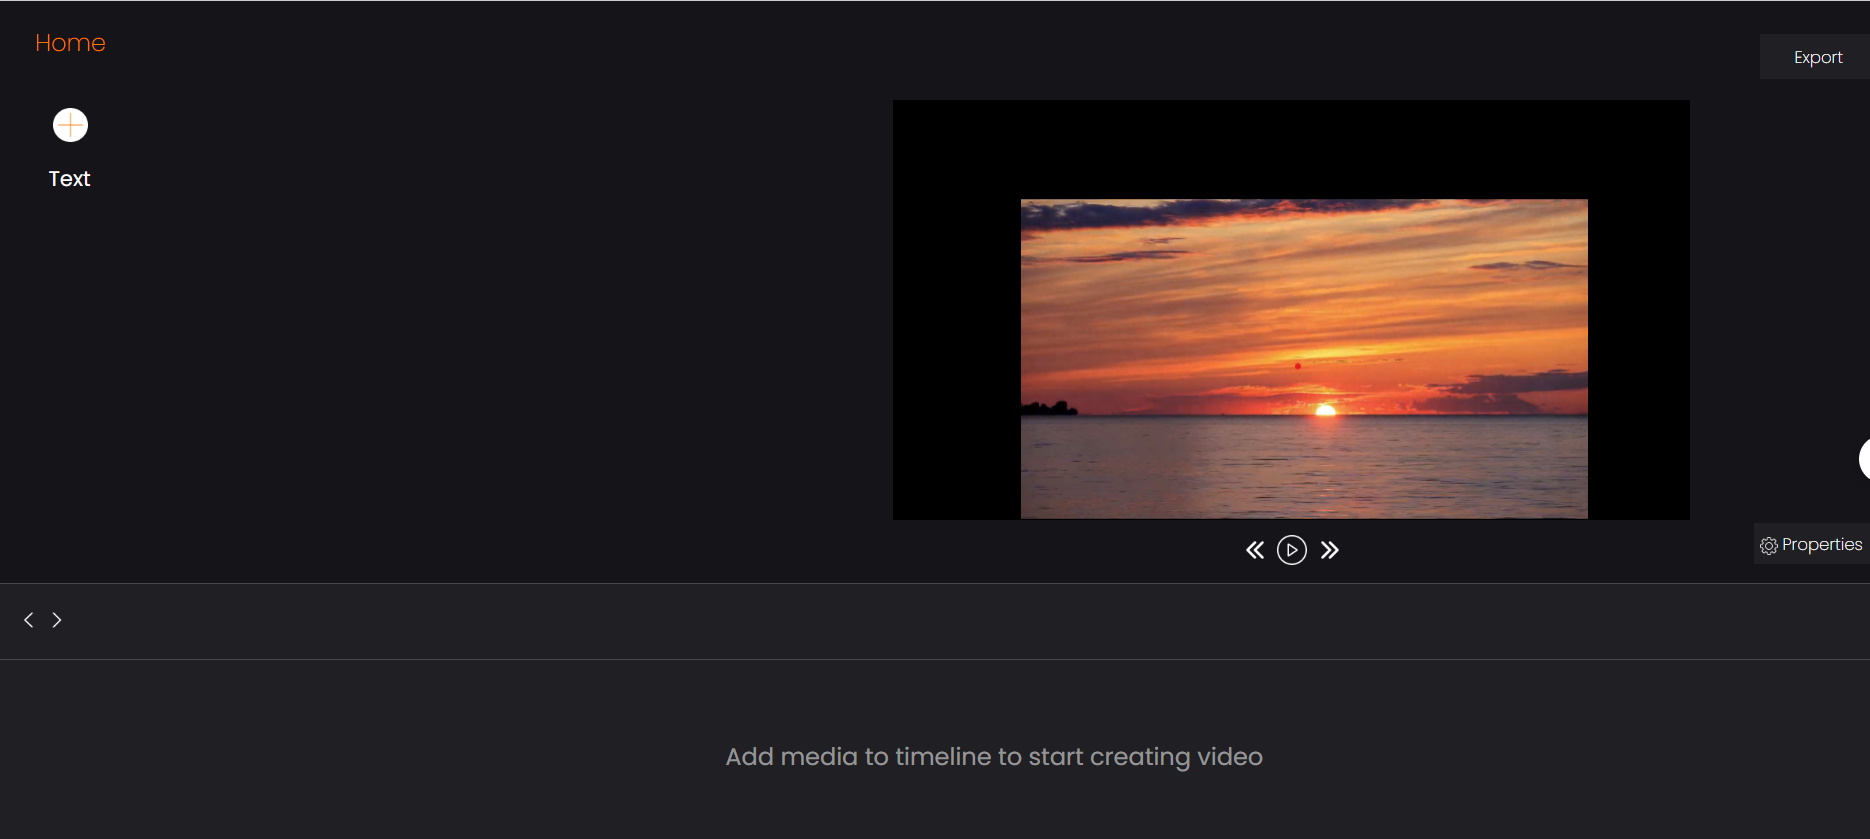
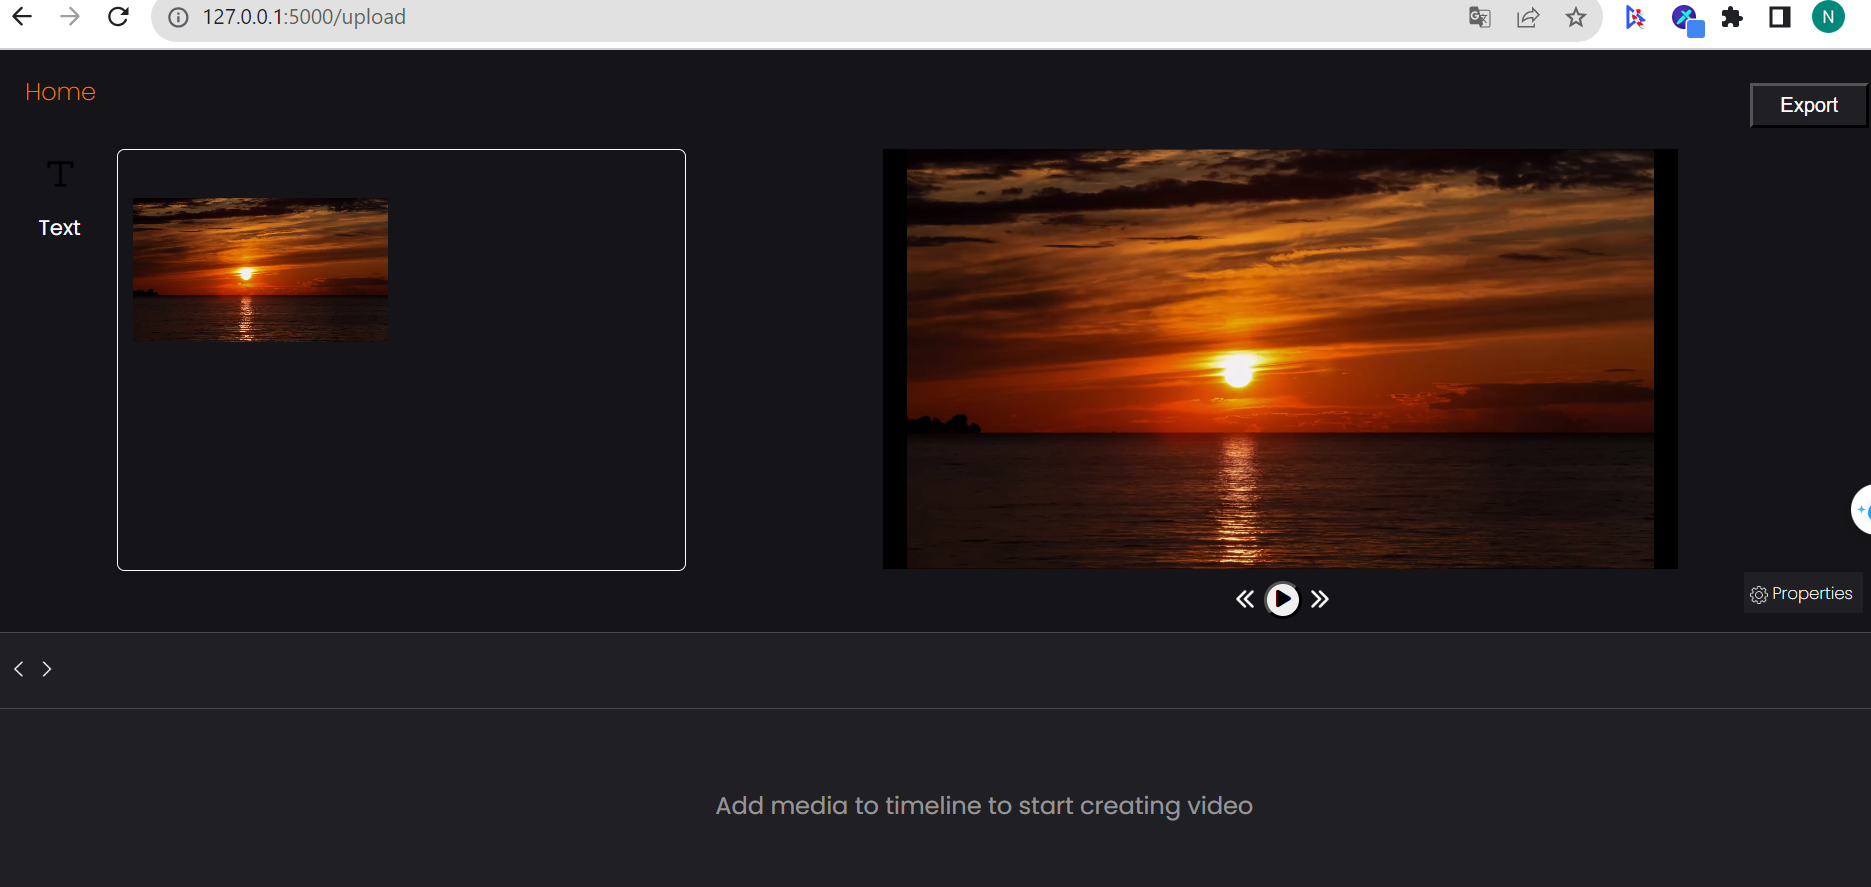
upload

diff --git a/uploadvideo/readme.md b/uploadvideo/readme.md
@@ -14,3 +14,11 @@
  ![Alt text](image-1.png)
  - Next, drag the video into the editing pane
  ![Alt text](image-2.png)
+- You can press the play button, pause the video, fast forward and rewind the video
+ ![Alt text](image-3.png)
+- Click the text button to add text to the video in the editing frame
+ ![Alt text](image-4.png)
+- You can delete the newly added text
+ ![Alt text](image-5.png)
+- Finally, click the export button to export the video. After exporting, it will display successfully
+ ![Alt text](image-6.png)
